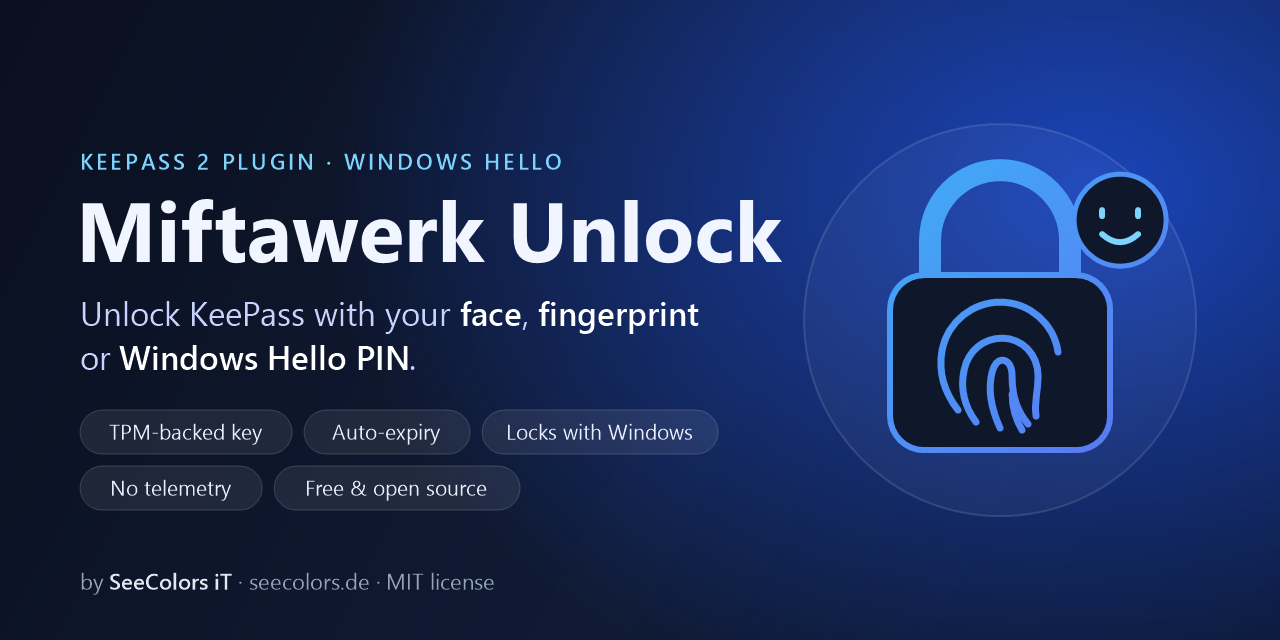
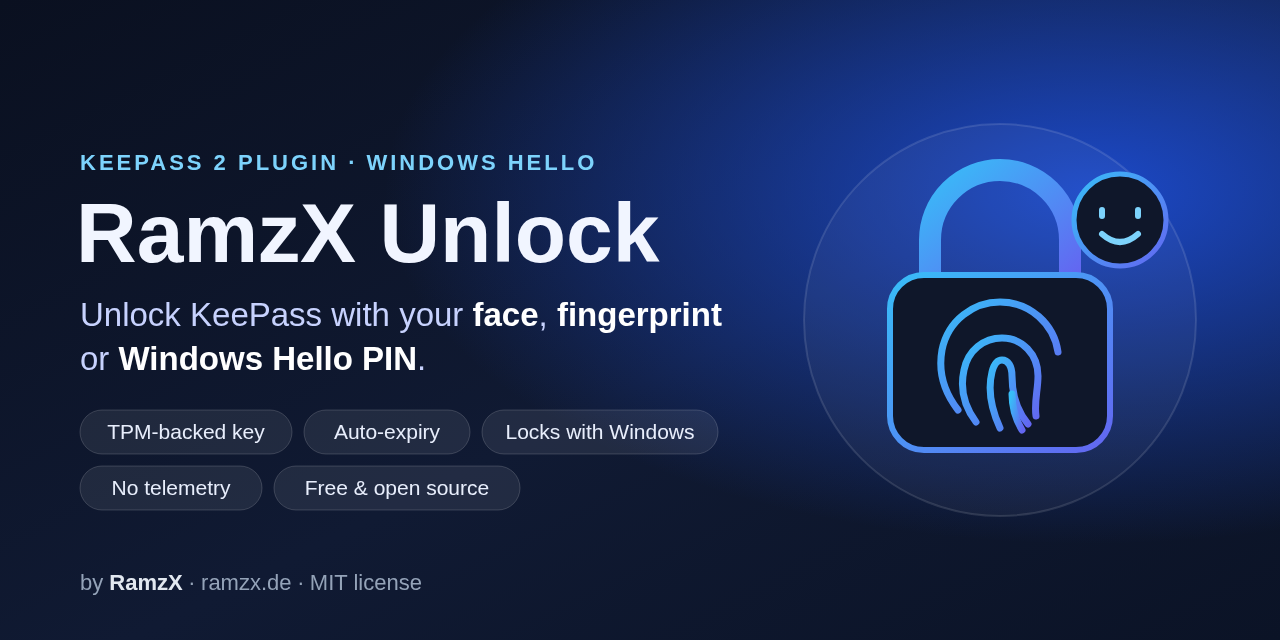
Rebrand: Miftawerk Unlock -> RamzX Unlock, SeeColors iT -> RamzX
Docs, translations, banner, social preview and visible UI strings now say
RamzX Unlock / RamzX, links point to ramzx.de and RamzXHQ/RamzX-Unlock.
Technical identifiers stay unchanged on purpose so existing installs keep
working: MiftawerkUnlock.dll, namespace and public API class, data folder
%LOCALAPPDATA%\SeeColors\MiftawerkUnlock, credential and KDF labels,
settings keys and the in-memory quick-unlock key name.

diff --git a/src/MiftawerkUnlock/Strings.cs b/src/MiftawerkUnlock/Strings.cs
@@ -1,5 +1,5 @@
-// Miftawerk Unlock - KeePass 2 plugin
-// Copyright (c) 2026 SeeColors iT. MIT License.
+// RamzX Unlock - KeePass 2 plugin
+// Copyright (c) 2026 RamzX. MIT License.
 
 using System;
 using System.Collections.Generic;
@@ -115,7 +115,7 @@ namespace MiftawerkUnlock
                 { EnrollFailed, "Windows Hello setup failed: {0}" },
                 { UnlockFailed, "Windows Hello unlock failed: {0}\r\nPlease use your master password." },
                 { WrongDatabase, "This file is not the database Windows Hello was enabled for. Its Windows Hello data was removed." },
-                { SettingsTitle, "Miftawerk Unlock - Settings" },
+                { SettingsTitle, "RamzX Unlock - Settings" },
                 { ValidityLabel, "Quick unlock valid for (days):" },
                 { ValidityNote, "Quick unlock always ends at the next Windows restart. A changed value applies to databases enabled from now on." },
                 { OfferEnrollment, "Offer Windows Hello after opening a database with the master password" },
@@ -152,7 +152,7 @@ namespace MiftawerkUnlock
                 { EnrollFailed, "Einrichtung von Windows Hello fehlgeschlagen: {0}" },
                 { UnlockFailed, "Entsperren mit Windows Hello fehlgeschlagen: {0}\r\nBitte verwenden Sie Ihr Master-Passwort." },
                 { WrongDatabase, "Diese Datei ist nicht die Datenbank, für die Windows Hello aktiviert wurde. Die Windows-Hello-Daten wurden entfernt." },
-                { SettingsTitle, "Miftawerk Unlock - Einstellungen" },
+                { SettingsTitle, "RamzX Unlock - Einstellungen" },
                 { ValidityLabel, "Schnellentsperrung gültig für (Tage):" },
                 { ValidityNote, "Die Schnellentsperrung endet immer beim nächsten Windows-Neustart. Ein geänderter Wert gilt für ab jetzt aktivierte Datenbanken." },
                 { OfferEnrollment, "Windows Hello anbieten, nachdem eine Datenbank mit dem Master-Passwort geöffnet wurde" },
@@ -187,7 +187,7 @@ namespace MiftawerkUnlock
                 { EnrollFailed, "فشل إعداد Windows Hello: {0}" },
                 { UnlockFailed, "فشل الفتح عبر Windows Hello: {0}\r\nاستخدم كلمة السر الرئيسية من فضلك." },
                 { WrongDatabase, "هذا الملف ليس القاعدة التي فُعّل لها Windows Hello. تم حذف بيانات Windows Hello الخاصة به." },
-                { SettingsTitle, "Miftawerk Unlock - الإعدادات" },
+                { SettingsTitle, "RamzX Unlock - الإعدادات" },
                 { ValidityLabel, "مدة صلاحية الفتح السريع (بالأيام):" },
                 { ValidityNote, "ينتهي الفتح السريع دائماً عند إعادة تشغيل Windows. القيمة الجديدة تسري على القواعد التي تُفعَّل من الآن." },
                 { OfferEnrollment, "عرض Windows Hello بعد فتح قاعدة بكلمة السر الرئيسية" },

diff --git a/src/MiftawerkUnlock/MiftawerkUnlockApi.cs b/src/MiftawerkUnlock/MiftawerkUnlockApi.cs
@@ -1,5 +1,5 @@
-// Miftawerk Unlock - KeePass 2 plugin
-// Copyright (c) 2026 SeeColors iT. MIT License.
+// RamzX Unlock - KeePass 2 plugin
+// Copyright (c) 2026 RamzX. MIT License.
 
 using System;
 using System.Threading.Tasks;
@@ -41,7 +41,7 @@ namespace MiftawerkUnlock
             try
             {
                 UserConsentVerificationResult r = await HelloForeground.RunAsync(owner as Form,
-                    () => UserConsentVerifier.RequestVerificationAsync(message ?? "Miftawerk Unlock").AsTask());
+                    () => UserConsentVerifier.RequestVerificationAsync(message ?? "RamzX Unlock").AsTask());
                 return r == UserConsentVerificationResult.Verified;
             }
             catch (Exception) { return false; }

diff --git a/tests/MiftawerkUnlock.Tests/RecordCryptoTests.cs b/tests/MiftawerkUnlock.Tests/RecordCryptoTests.cs
@@ -1,5 +1,5 @@
-// Miftawerk Unlock - tests
-// Copyright (c) 2026 SeeColors iT. MIT License.
+// RamzX Unlock - tests
+// Copyright (c) 2026 RamzX. MIT License.
 
 using System;
 using System.Security.Cryptography;
@@ -56,7 +56,7 @@ namespace MiftawerkUnlock.Tests
         public void AesCbc_RoundTrip_AndCiphertextDiffersFromPlaintext()
         {
             byte[] key = RecordCrypto.RandomBytes(32), iv = RecordCrypto.RandomBytes(16);
-            byte[] plain = Encoding.UTF8.GetBytes("Miftawerk Unlock test payload");
+            byte[] plain = Encoding.UTF8.GetBytes("RamzX Unlock test payload");
 
             byte[] cipher = RecordCrypto.AesCbcEncrypt(key, iv, plain);
 

diff --git a/src/MiftawerkUnlock/Ui.cs b/src/MiftawerkUnlock/Ui.cs
@@ -1,5 +1,5 @@
-// Miftawerk Unlock - KeePass 2 plugin
-// Copyright (c) 2026 SeeColors iT. MIT License.
+// RamzX Unlock - KeePass 2 plugin
+// Copyright (c) 2026 RamzX. MIT License.
 
 using System.Windows.Forms;
 
@@ -8,7 +8,7 @@ namespace MiftawerkUnlock
     /// <summary>Message boxes with the plugin title and right-to-left layout for Arabic.</summary>
     internal static class Ui
     {
-        internal const string Title = "Miftawerk Unlock";
+        internal const string Title = "RamzX Unlock";
 
         private static MessageBoxOptions Options
         {

diff --git a/src/MiftawerkUnlock/NativeMethods.cs b/src/MiftawerkUnlock/NativeMethods.cs
@@ -1,5 +1,5 @@
-// Miftawerk Unlock - KeePass 2 plugin
-// Copyright (c) 2026 SeeColors iT. MIT License.
+// RamzX Unlock - KeePass 2 plugin
+// Copyright (c) 2026 RamzX. MIT License.
 
 using System;
 using System.Runtime.InteropServices;

diff --git a/src/MiftawerkUnlock/HelloKey.cs b/src/MiftawerkUnlock/HelloKey.cs
@@ -1,5 +1,5 @@
-// Miftawerk Unlock - KeePass 2 plugin
-// Copyright (c) 2026 SeeColors iT. MIT License.
+// RamzX Unlock - KeePass 2 plugin
+// Copyright (c) 2026 RamzX. MIT License.
 
 using System;
 using System.Security.Cryptography;

diff --git a/src/MiftawerkUnlock/RecordCrypto.cs b/src/MiftawerkUnlock/RecordCrypto.cs
@@ -1,5 +1,5 @@
-// Miftawerk Unlock - KeePass 2 plugin
-// Copyright (c) 2026 SeeColors iT. MIT License.
+// RamzX Unlock - KeePass 2 plugin
+// Copyright (c) 2026 RamzX. MIT License.
 
 using System;
 using System.Security.Cryptography;

diff --git a/src/MiftawerkUnlock/Enrollment.cs b/src/MiftawerkUnlock/Enrollment.cs
@@ -1,5 +1,5 @@
-// Miftawerk Unlock - KeePass 2 plugin
-// Copyright (c) 2026 SeeColors iT. MIT License.
+// RamzX Unlock - KeePass 2 plugin
+// Copyright (c) 2026 RamzX. MIT License.
 
 using System;
 using System.Collections.Generic;

diff --git a/src/MiftawerkUnlock/HelloSelfTest.cs b/src/MiftawerkUnlock/HelloSelfTest.cs
@@ -1,5 +1,5 @@
-// Miftawerk Unlock - KeePass 2 plugin
-// Copyright (c) 2026 SeeColors iT. MIT License.
+// RamzX Unlock - KeePass 2 plugin
+// Copyright (c) 2026 RamzX. MIT License.
 
 using System;
 using System.Collections.Generic;

diff --git a/src/MiftawerkUnlock/KeySnapshot.cs b/src/MiftawerkUnlock/KeySnapshot.cs
@@ -1,5 +1,5 @@
-// Miftawerk Unlock - KeePass 2 plugin
-// Copyright (c) 2026 SeeColors iT. MIT License.
+// RamzX Unlock - KeePass 2 plugin
+// Copyright (c) 2026 RamzX. MIT License.
 
 using System;
 using System.Collections.Generic;

diff --git a/src/MiftawerkUnlock/QuickUnlock.cs b/src/MiftawerkUnlock/QuickUnlock.cs
@@ -1,5 +1,5 @@
-// Miftawerk Unlock - KeePass 2 plugin
-// Copyright (c) 2026 SeeColors iT. MIT License.
+// RamzX Unlock - KeePass 2 plugin
+// Copyright (c) 2026 RamzX. MIT License.
 
 using System;
 using System.Collections.Generic;

diff --git a/src/MiftawerkUnlock/MiftawerkUnlockExt.cs b/src/MiftawerkUnlock/MiftawerkUnlockExt.cs
@@ -1,5 +1,5 @@
-// Miftawerk Unlock - KeePass 2 plugin
-// Copyright (c) 2026 SeeColors iT. MIT License.
+// RamzX Unlock - KeePass 2 plugin
+// Copyright (c) 2026 RamzX. MIT License.
 
 using System;
 using System.Windows.Forms;
